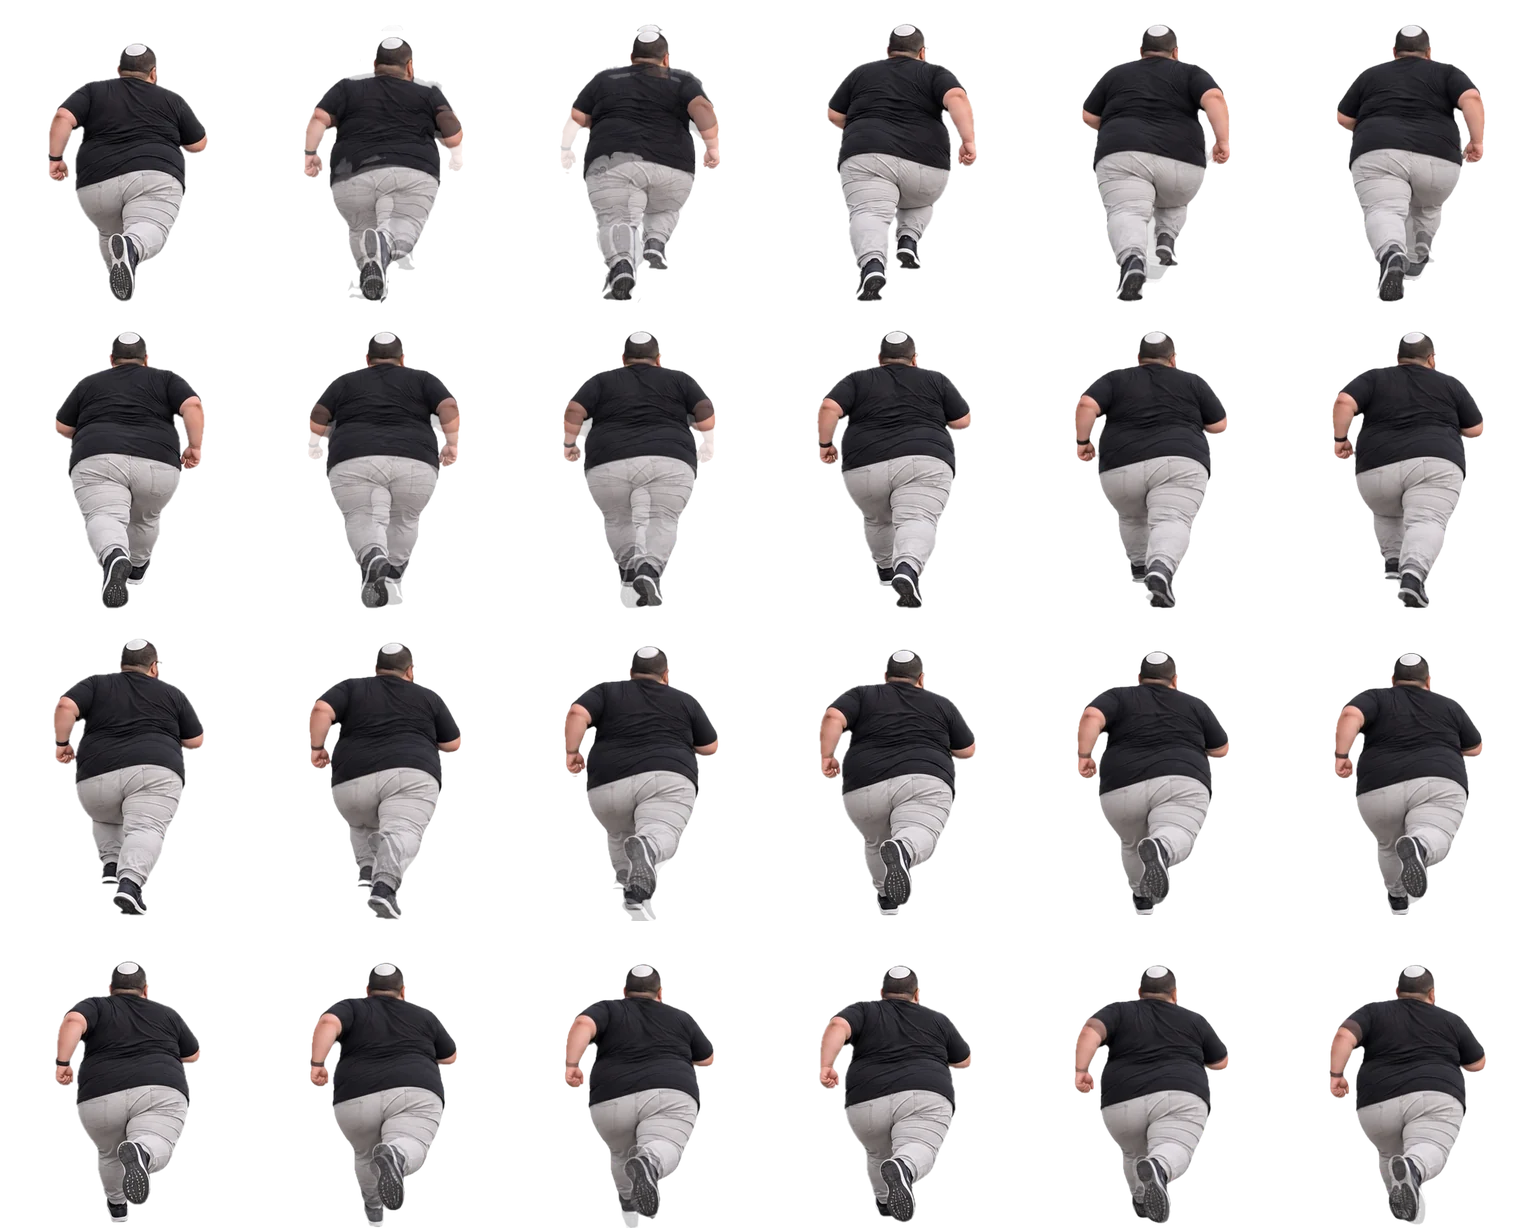
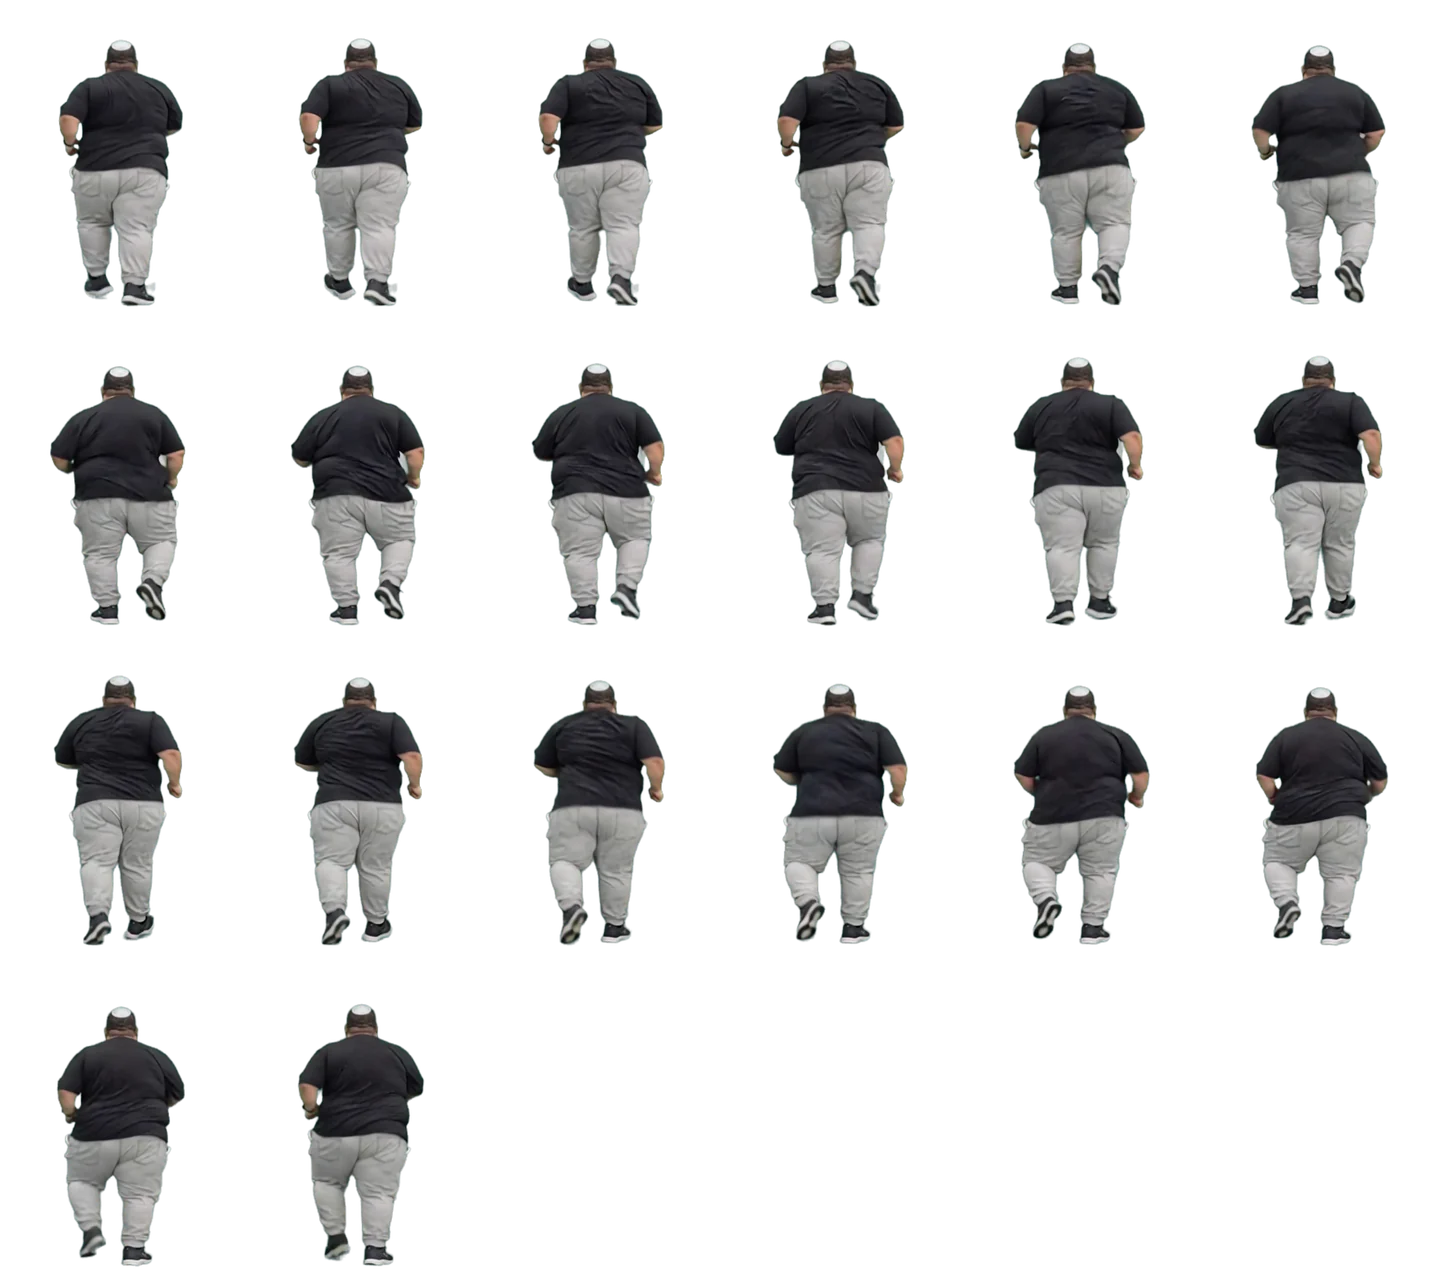
Natural run cycles from AI-generated running videos
Each crew member's back photo was animated into a short green-screen
running video; tools/video_cycle.py keys out the green, aligns every
frame to the ground and body centre, finds the cleanest seamless loop
(19-24 frames) and packs it into <name>-run.webp. The game plays these
loops at their own frame rate, a little faster as the run speeds up.

Claude-Session: https://claude.ai/code/session_01WPjYtwhGhn7yQj8n58aj8Q

diff --git a/src/player.js b/src/player.js
@@ -189,7 +189,12 @@ export class PlayerView {
       this.showFrame(ch.powerAtlas, Math.floor(run.distance / 1.4) % 4, scale);
     } else if (FRAMES[ch.atlas].run && this.atlases[ch.atlas + '-run']) {
       // one full stride cycle every ~5.6 m, 24 frames
-      this.showRun(Math.floor(run.distance / 5.6 * 24), scale);
+      const ri = FRAMES[ch.atlas].run;
+      if (ri.video) {
+        // real running video loop: play at its own frame rate, a little faster as you speed up
+        this.runPhase = ((this.runPhase || 0) + dt * ri.fps * THREE.MathUtils.clamp(run.speed / 14, .9, 1.45)) % ri.count;
+        this.showRun(Math.floor(this.runPhase), scale);
+      } else this.showRun(Math.floor(run.distance / 5.6 * 24), scale);
     } else {
       this.showFrame(ch.atlas, Math.floor(run.distance / .72) % 8, scale);
     }

diff --git a/tools/video_cycle.py b/tools/video_cycle.py
@@ -1,0 +1,86 @@
+"""Turn an AI-generated green-screen running video into a seamless run-cycle
+atlas: key out the green, align every frame to the ground and body centre,
+find the cleanest loop and pack it into public/assets/characters/<name>-run.webp.
+Usage: python3 -I tools/video_cycle.py <name> <video.mp4> [start_seconds]"""
+import sys, json
+import numpy as np, cv2
+from PIL import Image
+
+name, path = sys.argv[1], sys.argv[2]
+start_s = float(sys.argv[3]) if len(sys.argv) > 3 else 1.8
+cap = cv2.VideoCapture(path); fps = cap.get(cv2.CAP_PROP_FPS) or 24
+frames = []
+while True:
+    ok, f = cap.read()
+    if not ok: break
+    frames.append(cv2.cvtColor(f, cv2.COLOR_BGR2RGB))
+frames = frames[int(start_s * fps):]
+
+def key(rgb):
+    f = rgb.astype(np.float32)
+    r, g, b = f[..., 0], f[..., 1], f[..., 2]
+    m = g - np.maximum(r, b)                       # greenness
+    a = np.clip((70 - m) / 45, 0, 1)               # m>=70 bg, m<=25 fg
+    a = cv2.GaussianBlur(a, (3, 3), 0)
+    # despill
+    g2 = np.where(m > 0, np.maximum(r, b) + np.clip(m, 0, None) * (a * .15), g)
+    out = np.dstack([r, np.minimum(g, g2), b, a * 255])
+    # keep the biggest blob (the runner)
+    hard = (a > .5).astype(np.uint8)
+    n, lab, st, _ = cv2.connectedComponentsWithStats(cv2.dilate(hard, np.ones((7, 7), np.uint8)))
+    if n > 2:
+        big = 1 + np.argmax(st[1:, cv2.CC_STAT_AREA]); out[lab != big, 3] = 0
+    return out
+
+keyed = [key(f) for f in frames]
+H, W = keyed[0].shape[:2]
+info = []
+for k in keyed:
+    a = k[..., 3] > 128
+    ys, xs = np.nonzero(a)
+    top, bot = ys.min(), ys.max()
+    upper = a[top:top + int((bot - top) * .45)]
+    uy, ux = np.nonzero(upper)
+    info.append((top, bot, ux.mean()))
+info = np.array(info, np.float32)
+# ground line = rolling max of the lowest foot (feet in the air don't move it)
+win = 12
+ground = np.array([info[max(0, i - win):i + win + 1, 1].max() for i in range(len(info))])
+ground = cv2.GaussianBlur(ground.reshape(-1, 1), (1, 15), 0).ravel()
+cx = cv2.GaussianBlur(info[:, 2].reshape(-1, 1), (1, 9), 0).ravel()
+height = np.array([ground[i] - info[max(0, i - win):i + win + 1, 0].min() for i in range(len(info))])
+height = cv2.GaussianBlur(height.reshape(-1, 1), (1, 21), 0).ravel()
+ref_h = float(np.median(height))
+
+CW, CH = 300, 400
+aligned = []
+for i, k in enumerate(keyed):
+    s = (CH * .86) / height[i]                     # normalise body height
+    M = np.float32([[s, 0, CW / 2 - cx[i] * s], [0, s, CH * .97 - ground[i] * s]])
+    aligned.append(cv2.warpAffine(k, M, (CW, CH), flags=cv2.INTER_AREA, borderValue=(0, 0, 0, 0)))
+
+# find the loop: frame s and s+P should match (and their neighbours)
+sil = [cv2.resize(a[..., 3], (60, 80)) / 255 for a in aligned]
+best = None
+for s in range(0, max(1, len(aligned) - 30)):
+    for P in range(12, 26):
+        if s + P + 1 >= len(aligned): break
+        d = np.abs(sil[s] - sil[s + P]).mean() + np.abs(sil[s + 1] - sil[s + P + 1]).mean()
+        # prefer full two-step cycles over half cycles
+        if best is None or d < best[0]: best = (d, s, P)
+d, s0, P = best
+cycle = aligned[s0:s0 + P]
+print(name, 'loop start', s0, 'period', P, 'frames =', round(P / fps, 2), 's', 'err', round(d, 4))
+
+cols = 6; rows = (P + cols - 1) // cols; cw, ch = 240, 320
+atlas = Image.new('RGBA', (cols * cw, rows * ch))
+for i, c in enumerate(cycle):
+    im = Image.fromarray(np.clip(c, 0, 255).astype(np.uint8), 'RGBA').resize((cw, ch), Image.LANCZOS)
+    atlas.paste(im, ((i % cols) * cw, (i // cols) * ch))
+atlas.save(f'public/assets/characters/{name}-run.webp', quality=86, method=6)
+F = json.load(open('src/frames.json'))
+F[name]['run'] = {'count': P, 'cols': cols, 'rows': rows, 'cellW': cw, 'cellH': ch, 'w': atlas.width, 'h': atlas.height,
+                  'bodyPx': ch * .86, 'footPx': ch * .03, 'fps': fps, 'video': True}
+json.dump(F, open('src/frames.json', 'w'))
+prev = Image.new('RGBA', atlas.size, (40, 60, 70, 255)); prev.alpha_composite(atlas)
+prev.convert('RGB').save(f'/tmp/claude-0/-home-user-tembelrun/4062c504-a2b8-563a-9465-4be4b204f59c/scratchpad/vid/{name}-cycle.jpg', quality=85)
